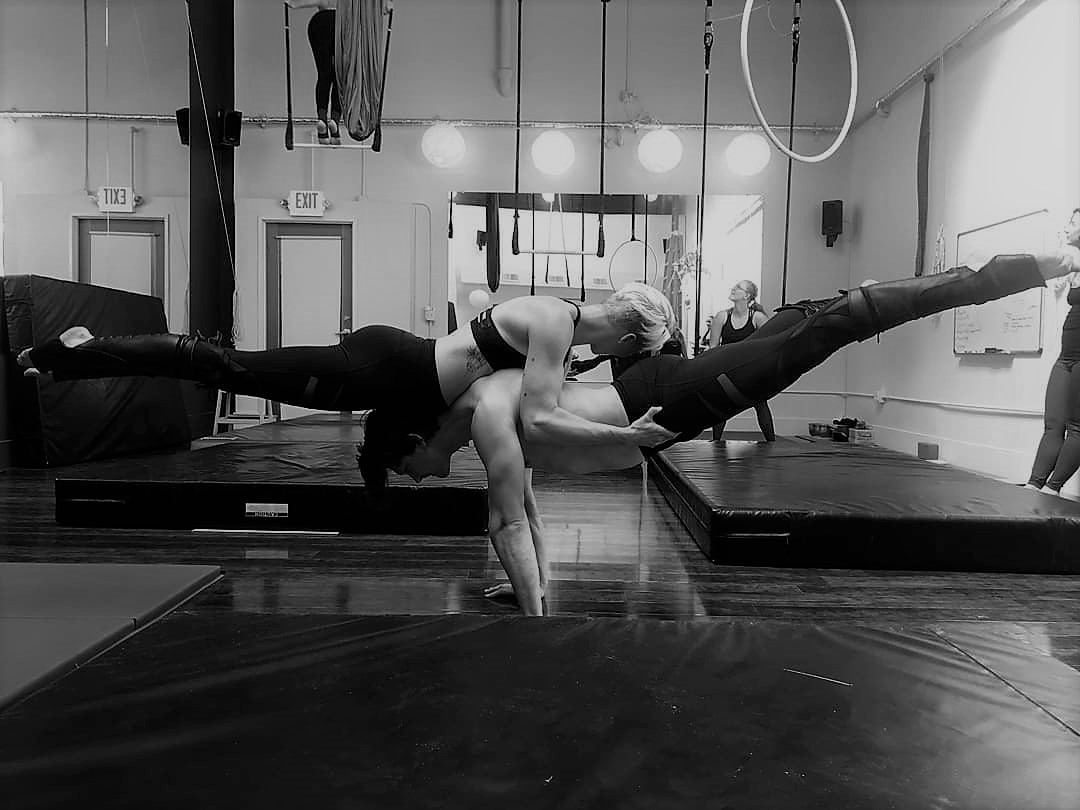
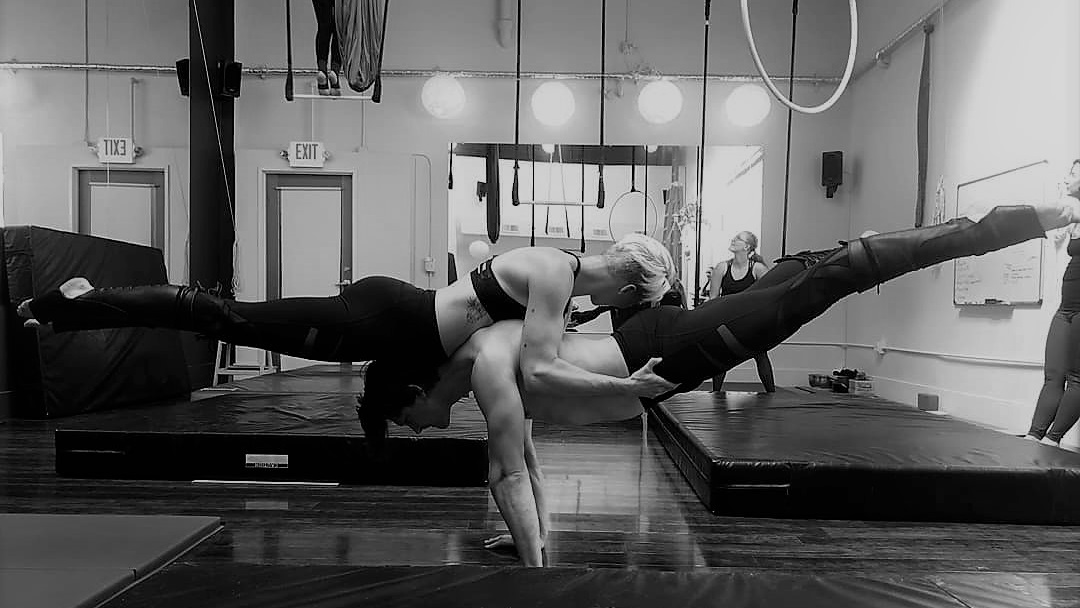
borders on job imgs, responsive

diff --git a/src/main.css b/src/main.css
@@ -570,8 +570,37 @@ div.mini-app-desc > h3 {
   display: flex;
   flex-direction: row;
   flex-wrap: wrap;
-  margin: 3vh 0vw 0vh 0vw;
   justify-content: space-evenly;
+  align-items: center;
+  margin: 3vh 0vw 4vh 0vw;
+}
+
+.shape-outer-imgs {
+  display: flex;
+  flex-shrink: 0;
+  background-image: linear-gradient(to bottom right, rgb(255, 77, 228), rgb(143, 0, 209), rgb(0, 110, 219));
+  width: 650px;
+  height: auto;
+  margin: 20px 0px 20px 0px;
+}
+
+.jobs-img {
+  display: flex;
+  flex-direction: column;	
+  width: 650px;
+  height: 366px;
+  margin: 5px;
+  cursor: pointer;
+}
+
+#city-img {
+  background: url('./img/citycouncil.jpg') rgba(0, 0, 0) no-repeat center;
+  background-size: cover;
+}
+
+#fitness-img {
+  background: url('./img/humanscale.jpg') rgba(0, 0, 0) no-repeat center;
+  background-size: cover;
 }
 
 .job-img {
@@ -632,7 +661,6 @@ div.job-desc > h3 {
 div.volunteer-content > h4 {
   margin: 8px 0 5px 0;
 }
-
 
 #contact {
   display: flex;
@@ -790,20 +818,20 @@ textarea {
   }
 
   .shape-outer-imgs {
-    width: 78vw;
+    width: 85vw;
   }
 
   .projects-img {
-    width: 78vw;
-    height: 43vw;
+    width: 85vw;
+    height: 47vw;
   }
 
   #basicass-img, #bashful-img, #sanchez-img, #jabba-img {
   background-size: contain;
-}
+  }
 
-#bashful-img {
-  height: 34vw;
+  #bashful-img {
+  height: 37vw;
   }
 
   .shape-outer-mini-app {
@@ -823,8 +851,9 @@ textarea {
   width: 70vw;
   }
 
-  .job-img {
+  .jobs-img {
     width: 85vw;
+    height: 47vw;
   }
 
   .volunteer-h3 {

diff --git a/index.html b/index.html
@@ -302,7 +302,10 @@
                       <p>Researched and compiled data on EPA's CCL2. Cataloged and determined Water Quality Sampling Stations (WQSS) to absorb after incorporation of PVR Water District. Updated WQSS data in ArcMap, Access, and Excel databases.</p>
               </div>
             </div>
-            <img src="src/img/citycouncil.jpg" alt="picture of Dylan at work at the City of Portland" id="city-gallery" class="job-img">
+            <div class="shape-outer-imgs bevel2">
+              <div class="jobs-img bevel2" id="city-img" alt="picture of Dylan at work at the City of Portland">
+              </div>
+            </div>
           </div>
 
           <div class="jobs-container">
@@ -321,7 +324,10 @@
                 <p>Designing and teaching individualized strength, conditioning, and stretching regimens.</p>
               </div>
             </div>
-            <img src="src/img/humanscale.jpg" alt="picture of Dylan doing fitness work" id="fitness-gallery" class="job-img">
+            <div class="shape-outer-imgs bevel2">
+              <div class="jobs-img bevel2" id="fitness-img" alt="picture of Dylan and Bentley doing the acro move human scale">
+              </div>
+            </div>
           </div>
 
           <div class="jobs-container">
